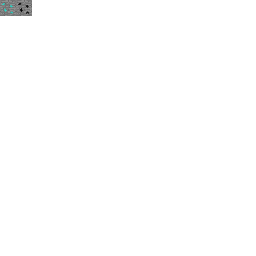
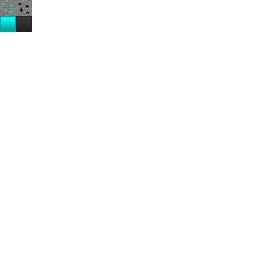
Implemented turquoise and onyx gem blocks

Changed region(s): [[0.0, 0.0625, 0.125, 0.125]]

diff --git a/src/minecraft/wal/resourceengineering/common/core/CommonProxy.java b/src/minecraft/wal/resourceengineering/common/core/CommonProxy.java
@@ -12,6 +12,7 @@ import cpw.mods.fml.common.registry.GameRegistry;
 import cpw.mods.fml.common.registry.LanguageRegistry;
 import resourceengineering.common.ResourceEngineeringMain;
 import resourceengineering.common.core.items.ItemBlockOre;
+import resourceengineering.common.core.items.ItemBlockGem;
 
 public class CommonProxy implements IGuiHandler
 {
@@ -42,6 +43,7 @@ public class CommonProxy implements IGuiHandler
 	public void registerBlocks()
 	{
 		GameRegistry.registerBlock(ResourceEngineeringMain.oreBlock,ItemBlockOre.class,"wal_Ore");
+		GameRegistry.registerBlock(ResourceEngineeringMain.gemBlock,ItemBlockGem.class,"wal_GemBlock");
 	}
 	public void addNames()
 	{
@@ -56,13 +58,18 @@ public class CommonProxy implements IGuiHandler
 		LanguageRegistry.addName(new ItemStack(ResourceEngineeringMain.nugget,1,0),"Iron Nugget");
 		
 		//Gems
+		//TODO: Add the rest of the gems here
 		LanguageRegistry.addName(new ItemStack(ResourceEngineeringMain.gem,1,0),"Turquoise");
+		LanguageRegistry.addName(new ItemStack(ResourceEngineeringMain.gem,1,1),"Onyx");
 		
 		//Ores
 		//TODO: Add the rest of the ores here
 		LanguageRegistry.addName(new ItemStack(ResourceEngineeringMain.oreBlock,1,0),"Turquoise Ore");
 		LanguageRegistry.addName(new ItemStack(ResourceEngineeringMain.oreBlock,1,1),"Onyx Ore");
 		
+		//Gem Blocks:
+		LanguageRegistry.addName(new ItemStack(ResourceEngineeringMain.gemBlock,1,0), "Turquoise Block");
+		LanguageRegistry.addName(new ItemStack(ResourceEngineeringMain.gemBlock,1,1), "Onyx Block");
 	}
 	public void addRecipes()
 	{
@@ -71,5 +78,13 @@ public class CommonProxy implements IGuiHandler
 		GameRegistry.addRecipe(new ItemStack(Item.ingotIron,1),"XXX","XXX","XXX",Character.valueOf('X'),new ItemStack(ResourceEngineeringMain.nugget,1,0));//iron ingot from 9 iron nuggets
 		
 		GameRegistry.addRecipe(new ItemStack(ResourceEngineeringMain.goldenPotato,1,0),"XXX","XAX","XXX",Character.valueOf('X'),new ItemStack(ResourceEngineeringMain.flake,1,1),Character.valueOf('A'),Item.poisonousPotato);
+		
+		//Gem Block Recipes
+		GameRegistry.addRecipe(new ItemStack(ResourceEngineeringMain.gemBlock,1,0),"XXX","XXX","XXX",Character.valueOf('X'),new ItemStack(ResourceEngineeringMain.gem,1,0));//Turquoise block from Turquoise Gems
+		GameRegistry.addRecipe(new ItemStack(ResourceEngineeringMain.gemBlock,1,1),"XXX","XXX","XXX",Character.valueOf('X'),new ItemStack(ResourceEngineeringMain.gem,1,1));//Onyx block from Onyx Gems
+		
+		//Gem from Block Recipes
+		GameRegistry.addShapelessRecipe(new ItemStack(ResourceEngineeringMain.gem,9,0),new ItemStack(ResourceEngineeringMain.gemBlock,1,0));
+		GameRegistry.addShapelessRecipe(new ItemStack(ResourceEngineeringMain.gem,9,1),new ItemStack(ResourceEngineeringMain.gemBlock,1,1));
 	}
 }

diff --git a/src/minecraft/wal/resourceengineering/common/blocks/BlockGem.java b/src/minecraft/wal/resourceengineering/common/blocks/BlockGem.java
@@ -1,0 +1,53 @@
+package resourceengineering.common.blocks;
+
+import java.util.ArrayList;
+import java.util.List;
+import java.util.Random;
+
+import cpw.mods.fml.relauncher.Side;
+import cpw.mods.fml.relauncher.SideOnly;
+
+import net.minecraft.block.Block;
+import net.minecraft.block.material.Material;
+import net.minecraft.creativetab.CreativeTabs;
+import net.minecraft.item.ItemStack;
+import net.minecraft.world.World;
+
+import resourceengineering.common.ResourceEngineeringMain;
+
+public class BlockGem extends Block
+{
+	public BlockGem(int id)
+	{
+		super(id,Material.rock);
+		setTextureFile("/walgfx/Blocks.png");
+		setBlockName("wal_BlockGem");
+		setHardness(2.0F);
+		setResistance(10.0F);
+		setLightValue(10.0F);
+		setCreativeTab(ResourceEngineeringMain.reTab);
+	}
+	
+	public int getBlockTextureFromSideAndMetadata(int i,int j)
+	{
+		switch(j)
+		{
+		case 0: return 16;//Turquoise Gem Block
+		case 1: return 17;//Onyx Gem Block
+		default: return 0;
+		}
+	}
+	public int damageDropped(int i)
+	{
+		return i;
+	}
+	
+	@SideOnly(Side.CLIENT)
+	public void getSubBlocks(int par1, CreativeTabs par2CreativeTabs, List par3List)
+	{
+		for(int i=0;i<2;i++)
+		{
+			par3List.add(new ItemStack(par1, 1, i));
+		}
+	}
+}

diff --git a/src/minecraft/wal/resourceengineering/common/ResourceEngineeringMain.java b/src/minecraft/wal/resourceengineering/common/ResourceEngineeringMain.java
@@ -35,6 +35,7 @@ import resourceengineering.common.core.items.ItemGem;
 
 //Block Imports
 import resourceengineering.common.blocks.BlockOre;
+import resourceengineering.common.blocks.BlockGem;
 
 @NetworkMod(clientSideRequired=true,serverSideRequired=false,
 clientPacketHandlerSpec=@SidedPacketHandler(channels={"WAL_RE"},packetHandler=ClientPacketHandler.class),
@@ -56,6 +57,7 @@ public class ResourceEngineeringMain
 	
 	//Blocks
 	public static Block oreBlock;
+	public static Block gemBlock;
 
 	public static CreativeTabs reTab = new ResourceEngineeringTab(CreativeTabs.getNextID(),"wal_ResouceEngineeringTab");
 	@PreInit()
@@ -70,6 +72,7 @@ public class ResourceEngineeringMain
 		gem = new ItemGem(cc.itemGemID);
 		
 		oreBlock = new BlockOre(cc.oreBlockID);
+		gemBlock = new BlockGem(cc.gemBlockID);
 	}
 	@Init
 	public void Initialization(FMLInitializationEvent event)

diff --git a/src/minecraft/wal/resourceengineering/common/core/items/ItemBlockGem.java b/src/minecraft/wal/resourceengineering/common/core/items/ItemBlockGem.java
@@ -1,0 +1,35 @@
+package resourceengineering.common.core.items;
+
+import java.util.List;
+
+import net.minecraft.item.ItemBlock;
+import net.minecraft.item.ItemStack;
+
+import cpw.mods.fml.relauncher.*;
+
+import resourceengineering.common.ResourceEngineeringMain;
+
+public class ItemBlockGem extends ItemBlock
+{
+	public ItemBlockGem(int id)
+	{
+		super(id);
+		this.setMaxDamage(0);
+		this.setHasSubtypes(true);
+	}
+	@SideOnly(Side.CLIENT)
+	public int getIconFromDamage(int par1)
+	{
+		return ResourceEngineeringMain.gemBlock.getBlockTextureFromSideAndMetadata(2,par1);
+	}
+	public int getMetadata(int par1)
+	{
+		return par1;
+	}
+	public String getItemNameIS(ItemStack is)
+	{
+		//TODO: Add gem blocks here
+		String[] types = {"Turquoise","Onyx"};
+		return "wal_Block"+types[is.getItemDamage()];
+	}
+}

diff --git a/src/minecraft/wal/resourceengineering/common/core/items/ItemGem.java b/src/minecraft/wal/resourceengineering/common/core/items/ItemGem.java
@@ -25,24 +25,26 @@ public class ItemGem extends Item
 	public int getIconFromDamage(int i)
 	{
 		switch(i)
-		{
+		{//TODO: Add the rest of the gems here
 		case 0: return 3;
+		case 1: return 4;
 		}
 		return 0;
 	}
 	public String getItemNameIS(ItemStack is)
 	{
 		switch(is.getItemDamage())
-		{
+		{//TODO: Add the rest of the gems here
 		case 0: return "wal_ItemTurqoise";
+		case 1: return "wal_ItemOnyx";
 		}
 		return "itemUnknown";
 	}
 	
 	@SideOnly(Side.CLIENT)
 	public void getSubItems(int itemID, CreativeTabs tab, List itemList)
-	{
-		for(int i=0;i<1;i++)
+	{//TODO: Add the rest of the gems here
+		for(int i=0;i<2;i++)
 		{
 			itemList.add(new ItemStack(itemID,1,i));
 		}

diff --git a/src/minecraft/wal/resourceengineering/common/ConfigCore.java b/src/minecraft/wal/resourceengineering/common/ConfigCore.java
@@ -16,6 +16,7 @@ public class ConfigCore
 	
 	//Blocks
 	public static int oreBlockID;
+	public static int gemBlockID;
 	
 	//Armor
 	
@@ -31,6 +32,7 @@ public class ConfigCore
 		itemGemID = config.getItem("Gem",21003).getInt();
 		
 		oreBlockID = config.getBlock("Ore",250).getInt();
+		gemBlockID = config.getBlock("GemBlock",251).getInt();
 		
 		config.save();
 	}
